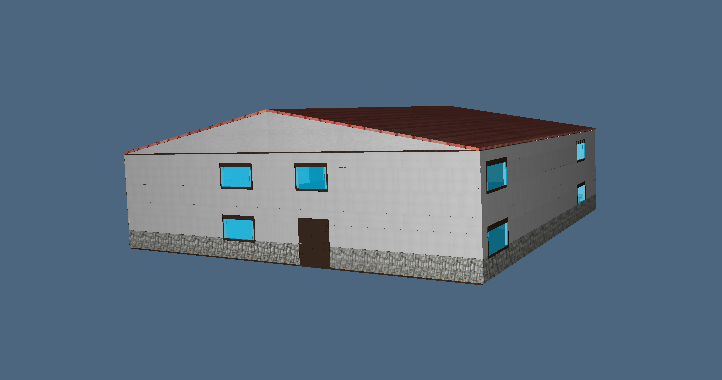
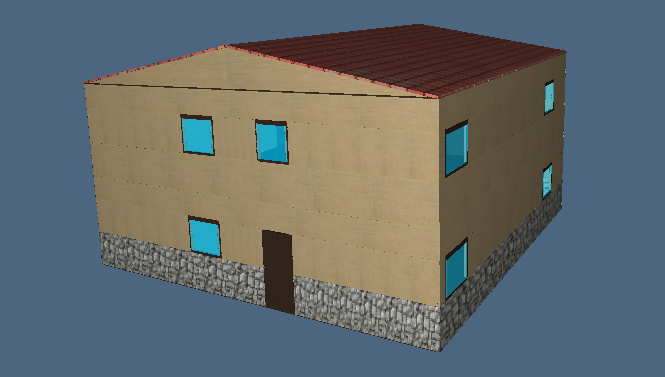
update workshop n.10

diff --git a/2017-01-13/workshop10.py b/2017-01-13/workshop10.py
@@ -6,7 +6,7 @@ import sys, os
 """elenco di texture che verranno usate"""
 
 woodTexture = "texture/wood.png"
-wallTexture = "texture/wall.jpg"
+wallTexture = "texture/wall1.jpg"
 stoneTexture = "texture/stone.jpg"
 metalTexture = "texture/metal.jpg"
 glassTexture = "texture/glass.jpg"
@@ -16,7 +16,7 @@ roofTexture = "texture/roof.jpg"
 
 zero = CUBOID([.0,.0,.0])
 initStruct = STRUCT([zero])
-levelHeight = [30.0,30.0,20.0,30.0,30.0,20.0]
+levelHeight = [60.0,60.0,40.0,60.0,60.0,40.0]
 
 """funzione che conta quanti file ha una directory"""
 
@@ -90,10 +90,10 @@ def buildExternal(l,i,h,structure):
       pol = MKPOL([[[params[0],params[1],0.0],[params[0],params[3],0.0],[params[2],params[1],0.0],[params[2],params[3],0.0]],[[1,2,3,4]],[1]])
       offset = OFFSET([3.0, 3.0, levelHeight[l]])(pol)
       if l==0:
-        texture = TEXTURE([stoneTexture, TRUE, FALSE, 1, 1, 0, 12, 1])(offset)
+        texture = TEXTURE([stoneTexture, TRUE, FALSE, 1, 1, 0, 6, 1])(offset)
       else:
         if l==3:
-          texture = TEXTURE([wallTexture, TRUE, FALSE, 1, 1, 0, 14, 1])(offset)
+          texture = TEXTURE([wallTexture, TRUE, FALSE, 1, 1, 0, 7, 1])(offset)
         else:
           texture = TEXTURE([wallTexture, TRUE, FALSE, 1, 1, 0, 6, 1])(offset)
       translated = STRUCT([T(3)(h), texture])
@@ -127,7 +127,7 @@ def buildIntenal(l,i,h,structure):
 """funzione che costruisce una porta in legno"""
 
 def buildOneDoor(elem, j, h, door):
-  if j < 7.5:
+  if j < 14:
     build = MKPOL([[[elem[0],elem[1],0.0],[elem[2],elem[3],0.0]],[[1,2]],[1]])
     buildOffset = OFFSET([3.5, 3.5, 8.5])(build)
     buildTexture = TEXTURE([woodTexture, TRUE, FALSE, 1, 1, 0, 6, 1])(buildOffset)
@@ -144,22 +144,22 @@ def createHandle(elem,structure):
   handle = MKPOL([[[elem[0],elem[1],0.0],[elem[2],elem[3],0.0]],[[1,2]],[1]])
   handle0 = OFFSET([8.0, 1.0, 1.0])(handle)
   if (elem[0]-elem[2]<1.0) & (elem[0]-elem[2]>-1.0):
-    handle_0 = STRUCT([T([1,2,3])([-2.0,1.0,31.0]), handle0])
-    handle_1 = STRUCT([T([1,2,3])([-2.0,3.0,31.0]), handle0])
+    handle_0 = STRUCT([T([1,2,3])([-2.0,1.0,62.0]), handle0])
+    handle_1 = STRUCT([T([1,2,3])([-2.0,3.0,62.0]), handle0])
     handle1 = OFFSET([1.0, 1.5, 1.0])(handle)
-    handle_2 = STRUCT([T([1,2,3])([5.0,1.0,31.0]), handle1])
-    handle_3 = STRUCT([T([1,2,3])([5.0,6.0,31.0]), handle1])
+    handle_2 = STRUCT([T([1,2,3])([5.0,1.0,62.0]), handle1])
+    handle_3 = STRUCT([T([1,2,3])([5.0,6.0,62.0]), handle1])
     handle_01 = DIFF([handle_0,handle_1])
     handle_23 = DIFF([handle_2,handle_3])
     handle_23_2 = STRUCT([T([1])([-8.0]), handle_23])
   else:
     handle = MKPOL([[[elem[0],elem[1],0.0],[elem[2],elem[3],0.0]],[[1,2]],[1]])
     handle0 = OFFSET([1.0, 8.0, 1.0])(handle)
-    handle_0 = STRUCT([T([1,2,3])([1.0,-2.0,31.0]), handle0])
-    handle_1 = STRUCT([T([1,2,3])([3.0,-2.0,31.0]), handle0])
+    handle_0 = STRUCT([T([1,2,3])([1.0,-2.0,62.0]), handle0])
+    handle_1 = STRUCT([T([1,2,3])([3.0,-2.0,62.0]), handle0])
     handle1 = OFFSET([1.0, 1.5, 1.0])(handle)
-    handle_2 = STRUCT([T([1,2,3])([1.0,5.0,31.0]), handle1])
-    handle_3 = STRUCT([T([1,2,3])([6.0,5.0,31.0]), handle1])
+    handle_2 = STRUCT([T([1,2,3])([1.0,5.0,62.0]), handle1])
+    handle_3 = STRUCT([T([1,2,3])([6.0,5.0,62.0]), handle1])
     handle_01 = DIFF([handle_0,handle_1])
     handle_23 = DIFF([handle_2,handle_3])
     handle_23_2 = STRUCT([T([2])([-8.0]), handle_23])
@@ -181,7 +181,7 @@ def buildAllDoors(l,i,h,structure):
       finalStruct = STRUCT([d, structure, hand])
       return buildAllDoors(l,i+1,h,finalStruct)
     else:
-      h = h + 80.0
+      h = h + 160.0
       return buildAllDoors(l+1,0,h,structure)
   else:
     return structure
@@ -190,23 +190,23 @@ def buildAllDoors(l,i,h,structure):
 
 def buildOneWindow(params,h):
   q1 = MKPOL([[[params[0],params[1],0.0],[params[2],params[3],0.0]],[[1,2]],[1]])
-  q1 = OFFSET([3.5, 3.5, 30.0])(q1)
+  q1 = OFFSET([3.5, 3.5, 50.0])(q1)
   q1 = TEXTURE([glassTexture, TRUE, FALSE, 1, 1, 0, 1, 1])(q1)
   q1 = MATERIAL([0,1.36,2.55,0.5,  0,1,0,0.5, 0,0,1,0, 0,0,0,0.5, 100])(q1)
   if (params[0]-params[2]<1.0) & (params[0]-params[2]>-1.0):
     if params[1]<params[3]:
       q2 = MKPOL([[[params[0],params[1]-2.0,0.0],[params[2],params[3]+2.0,0.0]],[[1,2]],[1]])
-      q2 = OFFSET([3.5, 3.5, 40.0])(q2)
+      q2 = OFFSET([3.5, 3.5, 60.0])(q2)
     else:
       q2 = MKPOL([[[params[0],params[1]+2.0,0.0],[params[2],params[3]-2.0,0.0]],[[1,2]],[1]])
-      q2 = OFFSET([3.5, 3.5, 40.0])(q2)
+      q2 = OFFSET([3.5, 3.5, 60.0])(q2)
   if (params[1]-params[3]<1.0) & (params[1]-params[3]>-1.0):
     if params[0]<params[2]:
       q2 = MKPOL([[[params[0]-2.0,params[1],0.0],[params[2]+2.0,params[3],0.0]],[[1,2]],[1]])
-      q2 = OFFSET([3.5, 3.5, 40.0])(q2)
+      q2 = OFFSET([3.5, 3.5, 60.0])(q2)
     else:
       q2 = MKPOL([[[params[0]+2.0,params[1],0.0],[params[2]-2.0,params[3],0.0]],[[1,2]],[1]])
-      q2 = OFFSET([3.5, 3.5, 40.0])(q2)
+      q2 = OFFSET([3.5, 3.5, 60.0])(q2)
   q2 = STRUCT([T(3)(-3.5), q2])
   q2 = TEXTURE([woodTexture, TRUE, FALSE, 1, 1, 0, 1, 1])(q2)
   q = DIFFERENCE([q2,q1])
@@ -225,7 +225,7 @@ def buildAllWindows(l,i,h,structure):
       finalStruct = STRUCT([w, structure])
       return buildAllWindows(l,i+1,h,finalStruct)
     else:
-      h = h + 80.0
+      h = h + 160.0
       return buildAllWindows(l+1,0,h,structure)
   else:
     return structure
@@ -274,8 +274,8 @@ def buildSecondFloor(i,base,structure):
 def buildStairs(tempLength,tempHeight,structure):
   params = convertLines(0,3,stairLevel)
   params2 = convertLines(0,0,stairLevel)
-  height = 80.0
-  stepHeight = 5.44
+  height = 160.0
+  stepHeight = 10.44
   steps=height/stepHeight
   steps=height/steps
   stepLength = 22.5
@@ -308,12 +308,12 @@ def buildHouse():
   house=STRUCT([firstFloor,T(3)(3.0),external])
   house=STRUCT([house,T(3)(3.5),stairs_level])
   house=STRUCT([house,T(3)(3.5),internal])
-  house=STRUCT([house,T(3)(83.0),secondFloor])
-  house=STRUCT([house,T(3)(163.0),firstFloor])
+  house=STRUCT([house,T(3)(163.0),secondFloor])
+  house=STRUCT([house,T(3)(323.0),firstFloor])
   house=STRUCT([house,T(3)(3.0),doors])
-  house=STRUCT([house,T(3)(3.0),windows])
-  house=STRUCT([house,T(3)(165.0),halfRoof])
-  house=STRUCT([house,T(3)(165.0),roof_level_2])
+  house=STRUCT([house,T(3)(37.0),windows])
+  house=STRUCT([house,T(3)(325.0),halfRoof])
+  house=STRUCT([house,T(3)(325.0),roof_level_2])
   VIEW(house)
 
 buildHouse()
